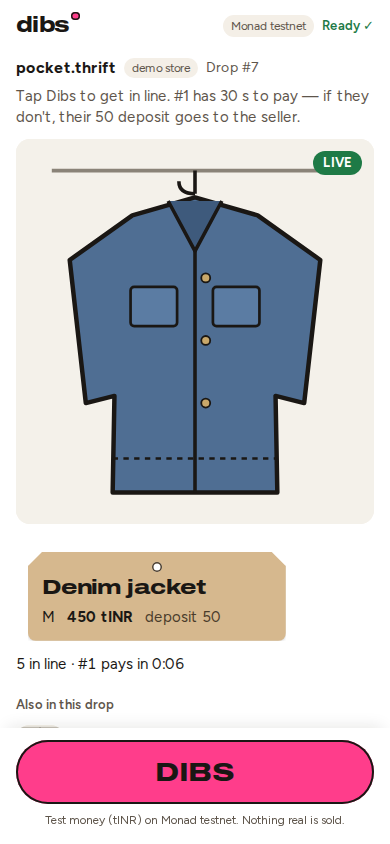
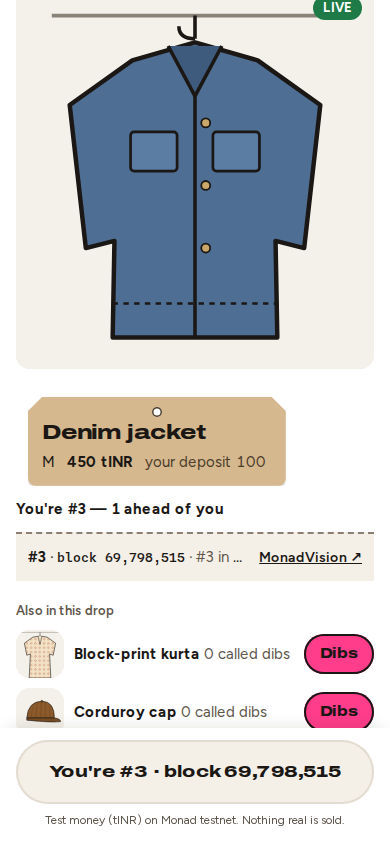
Board: tag text fits; ghost stat wording accurate for buyers with a record

diff --git a/app/board/[drop]/Board.tsx b/app/board/[drop]/Board.tsx
@@ -221,10 +221,10 @@ export function Board({ drop, fixture }: { drop: string; fixture: string | null 
               </div>
               <HangTag className="-mt-9 ml-[18px] w-[86%] px-[18px] pb-3.5 pt-[24px]">
                 <div className="display text-[26px] leading-tight">{piece.name}</div>
-                <div className="tabular mt-1.5 flex gap-4 whitespace-nowrap text-lg">
+                <div className="tabular mt-1.5 flex flex-wrap gap-x-4 text-lg">
                   <span>Size {piece.size}</span>
                   <span className="font-bold">{fmtNum(d.price)} tINR</span>
-                  <span className="text-tag-ink-muted">deposit {fmtNum(d.deposit)}, priced by record</span>
+                  <span className="text-tag-ink-muted">new-buyer deposit {fmtNum(d.deposit)}</span>
                 </div>
               </HangTag>
             </article>

diff --git a/components/StatsStrip.tsx b/components/StatsStrip.tsx
@@ -23,7 +23,7 @@ export function StatsStrip({ stats, synthetic, bots }: { stats: Stats; synthetic
           {stats.spanMs > 0 && <Item v={`${(stats.spanMs / 1000).toFixed(1)} s`} l="first → last block" />}
           {stats.medianSendToSeenMs > 0 && <Item v={`${(stats.medianSendToSeenMs / 1000).toFixed(1)} s`} l="tap → confirmed (median)" />}
           {stats.forfeits > 0 && (
-            <Item v={fmtNum(stats.forfeits)} l={stats.forfeits === 1 ? "ghost paid the seller — now pays 2× at every Dibs store" : "ghosts paid the seller — now pay 2× at every Dibs store"} />
+            <Item v={fmtNum(stats.forfeits)} l={stats.forfeits === 1 ? "ghost paid the seller — their deposit just went up at every Dibs store" : "ghosts paid the seller — their deposits just went up at every Dibs store"} />
           )}
         </>
       )}
